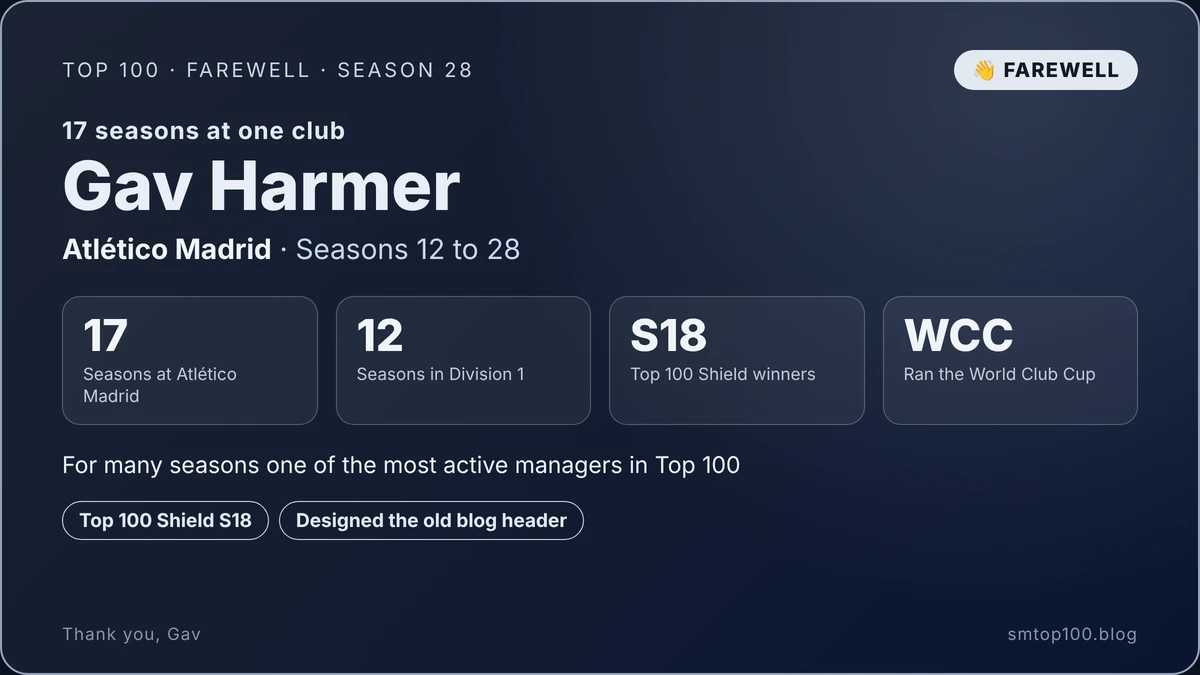
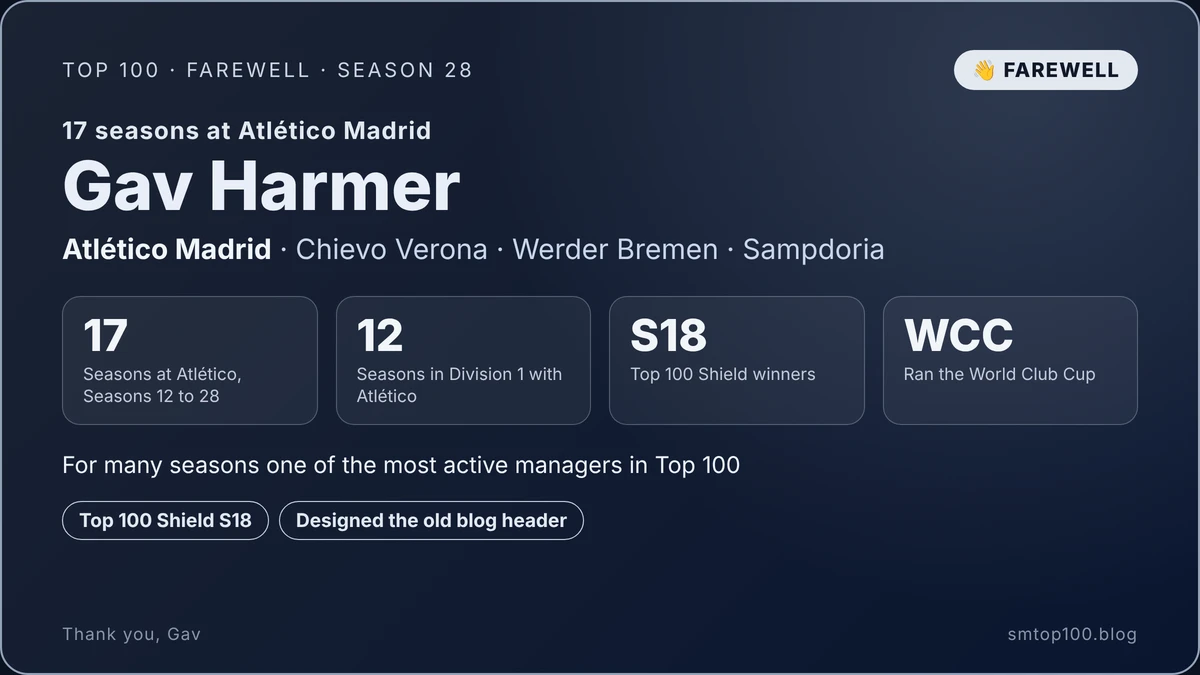
Gav's farewell card: add Chievo Verona, Werder Bremen and Sampdoria
Claude-Session: https://claude.ai/code/session_01VdxSby1fo79zG1TxWa4d3t

diff --git a/docs/appointment-cards/s28-roundup-cards.html b/docs/appointment-cards/s28-roundup-cards.html
@@ -161,12 +161,12 @@ h1{font-size:54px;line-height:1.05;margin-top:18px;font-weight:800}
 
 <div class="card fw" id="gav">
  <div class="top"><span>Top 100 · Farewell · Season 28</span><span class="badge">👋 Farewell</span></div>
- <p class="award">17 seasons at one club</p>
+ <p class="award">17 seasons at Atlético Madrid</p>
  <h1>Gav Harmer</h1>
- <div class="move"><b>Atlético Madrid</b> · Seasons 12 to 28</div>
+ <div class="move"><b>Atlético Madrid</b> · Chievo Verona · Werder Bremen · Sampdoria</div>
  <div class="stats">
-  <div class="stat"><div class="n">17</div><div class="l">Seasons at Atlético Madrid</div></div>
-  <div class="stat"><div class="n">12</div><div class="l">Seasons in Division 1</div></div>
+  <div class="stat"><div class="n">17</div><div class="l">Seasons at Atlético, Seasons 12 to 28</div></div>
+  <div class="stat"><div class="n">12</div><div class="l">Seasons in Division 1 with Atlético</div></div>
   <div class="stat"><div class="n">S18</div><div class="l">Top 100 Shield winners</div></div>
   <div class="stat"><div class="n">WCC</div><div class="l">Ran the World Club Cup</div></div>
  </div>
